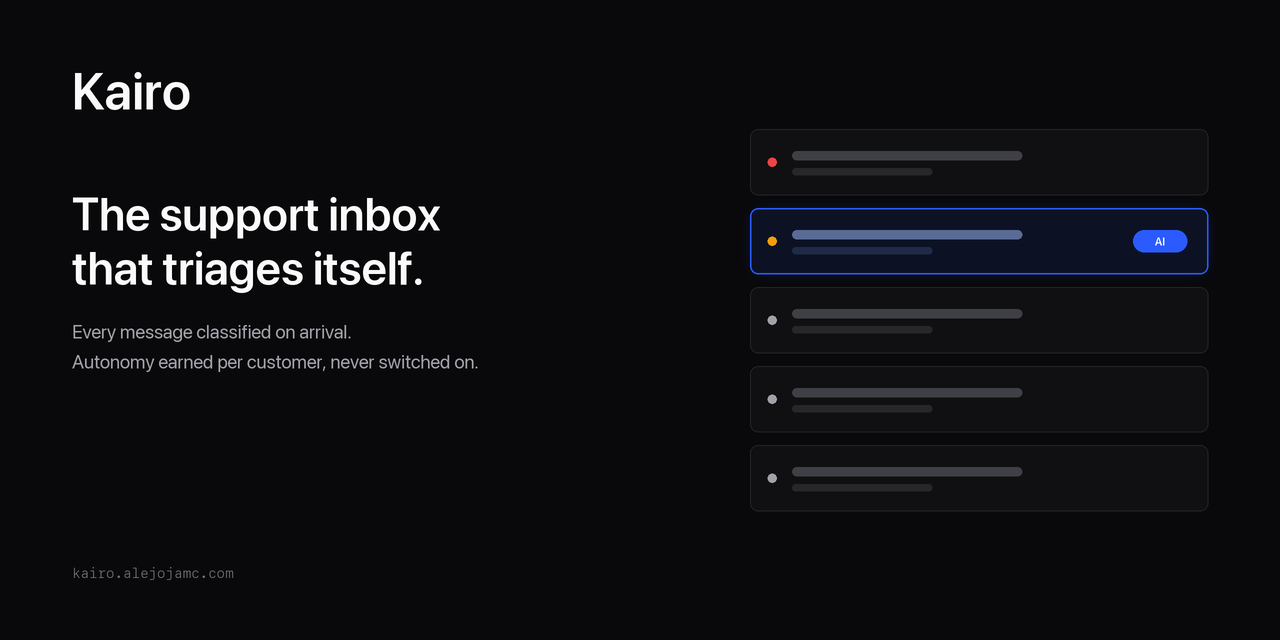
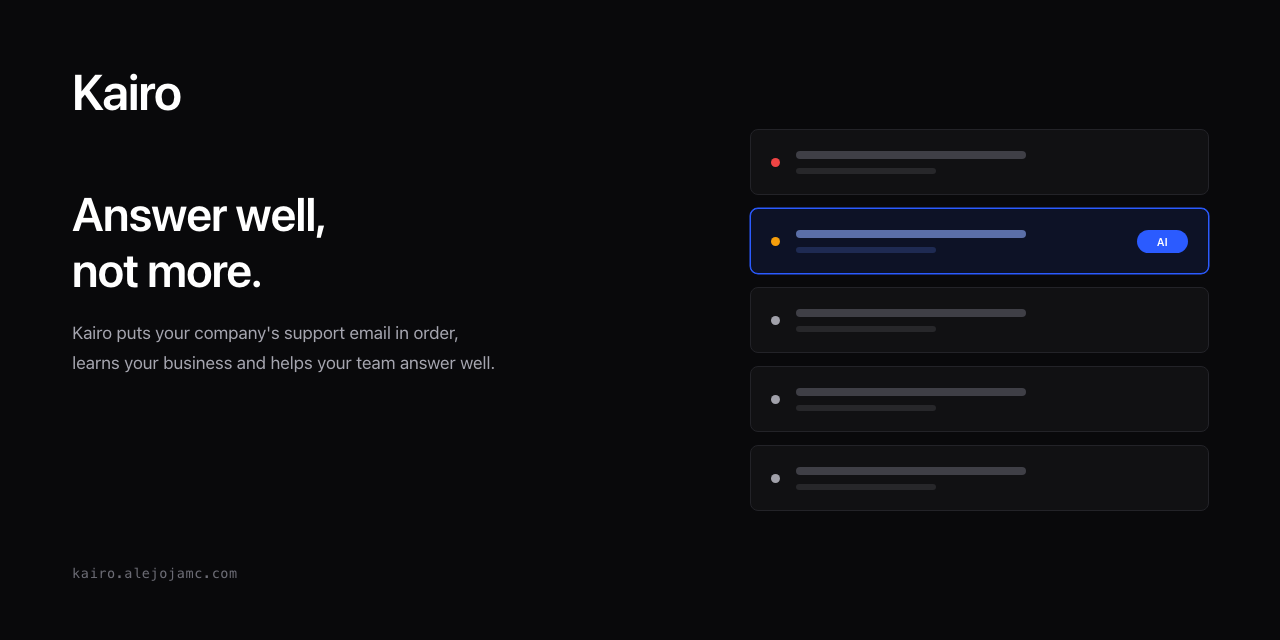
docs: unify the brand copy across docs, emails and the dashboard
Use the same description everywhere Kairo introduces itself: it puts a
company's support email in order, learns the business and helps the team
answer well. Updates the READMEs, PROJECT.md, AGENTS.md, the banner, the
email footers, the dashboard title and the legal and settings strings
that still said cockpit. Moves internal notes to the switched-off row of
the status tables and updates the channels line in the product docs.

diff --git a/apps/landing/lib/i18n/locales/en.ts b/apps/landing/lib/i18n/locales/en.ts
@@ -118,8 +118,8 @@ export const en = {
     ctaPrimary: "Connect my Gmail",
     ctaSecondary: "See pricing",
     ctaNote: "Free up to 200 tickets a month. No card. Cancel anytime.",
-    footerSlogan: "Reply well, not more.",
-    footerTagline: "Kairo sorts your company's support email, learns your business and helps you reply well.",
+    footerSlogan: "Answer well, not more.",
+    footerTagline: "Kairo sorts your company's support email, learns your business and helps you answer well.",
     footerBuilt: "MADE IN BUCARAMANGA AND UTRECHT",
     footerColProduct: "Product",
     footerColLegal: "Legal",
@@ -214,7 +214,6 @@ export const en = {
     },
   },
   footer: {
-    tagline: "AI Support Cockpit",
     privacy: "Privacy Policy",
     terms: "Terms of Service",
     copyright: "© 2026 Kairo. All rights reserved.",
@@ -235,7 +234,6 @@ export const en = {
       'Invalid credentials. If you signed up with Google, use "Continue with Google" or set a password first.',
     errorUnexpected: "An unexpected error occurred. Please try again.",
     forgotPassword: "Forgot?",
-    tagline: "AI support cockpit · 14 days free",
     switchLabel: "No account? Create one →",
     emailDivider: "OR WITH EMAIL",
     testimonialQuote:
@@ -428,7 +426,7 @@ export const en = {
     updated: "Last updated: February 20, 2026",
     s1: {
       title: "1. Introduction",
-      p1: 'Kairo (\u201cwe\u201d, \u201cour\u201d, or \u201cus\u201d) is committed to protecting your privacy. This Privacy Policy explains how we collect, use, and safeguard your information when you use our AI Support Cockpit service.',
+      p1: 'Kairo (\u201cwe\u201d, \u201cour\u201d, or \u201cus\u201d) is committed to protecting your privacy. This Privacy Policy explains how we collect, use, and safeguard your information when you use Kairo.',
       p2: "By using Kairo, you agree to the collection and use of information in accordance with this policy.",
     },
     s2: {
@@ -645,7 +643,7 @@ export const en = {
     },
     s2: {
       title: "2. Service Description",
-      intro: "Kairo is an AI-powered support cockpit that:",
+      intro: "Kairo is an AI-powered support service that:",
       items: [
         "Connects to your Gmail account to read support emails",
         "Automatically triages and prioritizes support tickets",

diff --git a/apps/landing/lib/i18n/locales/es.ts b/apps/landing/lib/i18n/locales/es.ts
@@ -216,7 +216,6 @@ export const es: Translations = {
     },
   },
   footer: {
-    tagline: "Cockpit de Soporte con IA",
     privacy: "Política de Privacidad",
     terms: "Términos de Servicio",
     copyright: "© 2026 Kairo. Todos los derechos reservados.",
@@ -237,7 +236,6 @@ export const es: Translations = {
       'Credenciales inválidas. Si te registraste con Google, usa "Continuar con Google" o establece una contraseña primero.',
     errorUnexpected: "Ocurrió un error inesperado. Por favor, inténtalo de nuevo.",
     forgotPassword: "¿Olvidaste?",
-    tagline: "Cockpit de soporte con IA · 14 días gratis",
     switchLabel: "¿Sin cuenta? Crear una →",
     emailDivider: "O CON EMAIL",
     testimonialQuote:
@@ -430,7 +428,7 @@ export const es: Translations = {
     updated: "Última actualización: 20 de febrero de 2026",
     s1: {
       title: "1. Introducción",
-      p1: "Kairo («nosotros», «nuestro» o «nos») está comprometido con la protección de tu privacidad. Esta Política de Privacidad explica cómo recopilamos, usamos y protegemos tu información cuando utilizas nuestro servicio de Cockpit de Soporte con IA.",
+      p1: "Kairo («nosotros», «nuestro» o «nos») está comprometido con la protección de tu privacidad. Esta Política de Privacidad explica cómo recopilamos, usamos y protegemos tu información cuando utilizas Kairo.",
       p2: "Al usar Kairo, aceptas la recopilación y el uso de información de acuerdo con esta política.",
     },
     s2: {
@@ -647,7 +645,7 @@ export const es: Translations = {
     },
     s2: {
       title: "2. Descripción del Servicio",
-      intro: "Kairo es un cockpit de soporte impulsado por IA que:",
+      intro: "Kairo es un servicio de soporte con IA que:",
       items: [
         "Se conecta a tu cuenta de Gmail para leer correos de soporte",
         "Clasifica y prioriza automáticamente los tickets de soporte",

diff --git a/apps/api/src/emails/templates/agent-reply.html b/apps/api/src/emails/templates/agent-reply.html
@@ -244,7 +244,7 @@
                   </div>
                   <div style="margin-bottom:6px; color:#A1A1AA;">Recibes este correo porque tienes un ticket de soporte abierto en Kairo.</div>
                   <div style="color:#C4C4CC; font-size:11px;">
-                    Kairo · El cockpit de soporte para equipos hispanohablantes
+                    Kairo · Responder bien, no responder más
                     <!-- kairo:if unsubscribe_url --><br/>
                     <a href="{{unsubscribe_url}}" style="color:#A1A1AA; text-decoration:underline;">Gestionar notificaciones</a>
                     <!-- /kairo:if -->

diff --git a/apps/api/src/emails/templates/csat-survey.html b/apps/api/src/emails/templates/csat-survey.html
@@ -202,7 +202,7 @@
                   </div>
                   <div style="margin-bottom:6px; color:#A1A1AA;">Recibes esta encuesta porque cerramos tu ticket de soporte en Kairo.</div>
                   <div style="color:#C4C4CC; font-size:11px;">
-                    Kairo · El cockpit de soporte para equipos hispanohablantes
+                    Kairo · Responder bien, no responder más
                     <!-- kairo:if unsubscribe_url --><br/>
                     <a href="{{unsubscribe_url}}" style="color:#A1A1AA; text-decoration:underline;">Gestionar notificaciones</a>
                     <!-- /kairo:if -->

diff --git a/apps/api/src/emails/templates/acknowledgement.html b/apps/api/src/emails/templates/acknowledgement.html
@@ -258,7 +258,7 @@
                   </div>
                   <div style="margin-bottom:6px; color:#A1A1AA;">Recibes este correo porque abriste un ticket de soporte en Kairo.</div>
                   <div style="color:#C4C4CC; font-size:11px;">
-                    Kairo · El cockpit de soporte para equipos hispanohablantes
+                    Kairo · Responder bien, no responder más
                     <!-- kairo:if unsubscribe_url --><br/>
                     <a href="{{unsubscribe_url}}" style="color:#A1A1AA; text-decoration:underline;">Gestionar notificaciones</a>
                     <!-- /kairo:if -->

diff --git a/apps/api/src/emails/templates/escalated.html b/apps/api/src/emails/templates/escalated.html
@@ -243,7 +243,7 @@
                   </div>
                   <div style="margin-bottom:6px; color:#A1A1AA;">Recibes este correo por tu ticket de soporte en Kairo.</div>
                   <div style="color:#C4C4CC; font-size:11px;">
-                    Kairo · El cockpit de soporte para equipos hispanohablantes
+                    Kairo · Responder bien, no responder más
                     <!-- kairo:if unsubscribe_url --><br/>
                     <a href="{{unsubscribe_url}}" style="color:#A1A1AA; text-decoration:underline;">Gestionar notificaciones</a>
                     <!-- /kairo:if -->

diff --git a/apps/api/src/emails/templates/resolved.html b/apps/api/src/emails/templates/resolved.html
@@ -271,7 +271,7 @@
                   </div>
                   <div style="margin-bottom:6px; color:#A1A1AA;">Recibes este correo por tu ticket de soporte en Kairo.</div>
                   <div style="color:#C4C4CC; font-size:11px;">
-                    Kairo · El cockpit de soporte para equipos hispanohablantes
+                    Kairo · Responder bien, no responder más
                     <!-- kairo:if unsubscribe_url --><br/>
                     <a href="{{unsubscribe_url}}" style="color:#A1A1AA; text-decoration:underline;">Gestionar notificaciones</a>
                     <!-- /kairo:if -->

diff --git a/apps/dashboard/index.html b/apps/dashboard/index.html
@@ -4,7 +4,7 @@
     <meta charset="UTF-8" />
     <link rel="icon" type="image/svg+xml" href="%BASE_URL%vite.svg" />
     <meta name="viewport" content="width=device-width, initial-scale=1.0" />
-    <title>Kairo — AI Support Cockpit</title>
+    <title>Kairo</title>
     <!-- Kairo design fonts: Inter Display (headings), Inter (body), JetBrains Mono (code/kbd) via Google Fonts -->
     <link rel="preconnect" href="https://fonts.googleapis.com" />
     <link rel="preconnect" href="https://fonts.gstatic.com" crossorigin />

diff --git a/docs/README.es.md b/docs/README.es.md
@@ -1,8 +1,8 @@
 <p align="center">
-  <img src="assets/banner.png" alt="Kairo — la bandeja de soporte que se ordena sola" width="100%">
+  <img src="assets/banner.png" alt="Kairo — responder bien, no responder más" width="100%">
 </p>
 
-**Triage de soporte con IA para la bandeja de soporte.** Cada mensaje se clasifica al llegar; la IA actúa sola solo donde se ha ganado el derecho, y le pasa la decisión a una persona cuando no.
+**Kairo ordena el correo de soporte de una empresa, aprende de su negocio y ayuda a su equipo a responder bien.** Empieza con Gmail. La IA propone y una persona decide: Kairo solo actúa por su cuenta en lo que ha demostrado hacer bien, y ninguna respuesta que redacte sale sin que alguien la revise.
 
 [Sitio web](https://kairo.alejojamc.com) · [Qué funciona hoy](que-es-kairo.md) · [English](../README.md)
 
@@ -14,9 +14,11 @@
 
 ## Qué hace
 
-- **Clasifica cada mensaje al llegar** — tipo, prioridad, urgencia y tono — antes de que nadie abra la bandeja.
-- **Ordena la cola** por tipo de ticket, plan del cliente, estado de ánimo, tiempo de espera y reincidencia, para que la primera pantalla sea el orden de trabajo.
-- **Se gana la autonomía por cliente.** Un tipo de ticket se aprueba automáticamente solo tras medir su precisión, y una corrección le quita ese derecho otra vez.
+- **Lee y entiende cada correo al llegar.** Dice qué tipo de asunto es, qué tan grave es, qué tan urgente es y con qué ánimo escribe el cliente, antes de que nadie abra la bandeja.
+- **Ordena la bandeja** por tipo de ticket, plan del cliente, ánimo, tiempo de espera y reincidencia, y deja cada ticket con un responsable, para que quien la abra sepa por dónde empezar.
+- **Aprende del negocio.** Lo que el equipo aprende atendiendo deja de perderse: Kairo propone conocimiento a partir del correo de la empresa y de los tickets resueltos, y una persona lo publica.
+- **Ayuda al equipo a responder bien.** Las respuestas salen desde el Gmail de la empresa, en el mismo hilo del cliente. Kairo no inventa soluciones, y un borrador siempre necesita la aprobación de una persona.
+- **Se gana la autonomía por empresa y por tipo de ticket.** Un tipo queda en firme sin revisión solo tras medir su precisión, y una corrección le quita ese permiso otra vez.
 
 ## Cómo un mensaje se convierte en ticket
 
@@ -36,8 +38,8 @@ flowchart LR
 
 | Estado | Qué incluye |
 |---|---|
-| **Funciona hoy** | Entrada desde Gmail · clasificación · cola por prioridad · respuestas en el hilo · notas internas · escalamientos · tiempos de respuesta |
-| **Construido, apagado por defecto** | Propuestas de conocimiento · asistente del ticket · segundo modelo · borradores de contactos · correo de acuse |
+| **Funciona hoy** | Entrada desde Gmail · clasificación · cola por prioridad · respuestas en el hilo · escalamientos · tiempos de respuesta |
+| **Construido, apagado por defecto** | Propuestas de conocimiento · notas internas · asistente del ticket · segundo modelo · borradores de contactos · correo de acuse |
 | **Sin construir** | Canales distintos de Gmail · facturación · resolución automática |
 
 Qué funciona, qué está apagado y dónde el sitio de marketing promete más de lo que hace el producto: **[what-is-kairo.md](what-is-kairo.md)**.
@@ -65,7 +67,7 @@ Cada variable se valida al arrancar con [`@kairo/env`](../packages/env/index.ts)
 ```
 apps/
   api/          Bun + Hono · REST v1 + pipeline Inngest (tiers, sondeo, reintentos)
-  dashboard/    Vite + React 19 · el panel
+  dashboard/    Vite + React 19 · la aplicación donde trabaja el equipo de soporte
   landing/      Next.js 15 · sitio de marketing, auth, asistente de registro
   kelan/        Next.js 15 · administración interna
   mobile/       Expo · solo esqueleto

diff --git a/README.md b/README.md
@@ -1,8 +1,8 @@
 <p align="center">
-  <img src="docs/assets/banner.png" alt="Kairo — the support inbox that triages itself" width="100%">
+  <img src="docs/assets/banner.png" alt="Kairo — answer well, not more" width="100%">
 </p>
 
-**AI support triage for the support inbox.** Every message is classified on arrival; the AI acts alone only where it has earned the right to, and hands the decision to a person when it hasn't.
+**Kairo puts a company's support email in order, learns the business, and helps the team answer well.** It starts with Gmail. The AI proposes and a person decides: Kairo acts alone only where it has proven it gets things right, and no reply it drafts goes out before someone has reviewed it.
 
 [Website](https://kairo.alejojamc.com) · [What works today](docs/what-is-kairo.md) · [Español](docs/README.es.md)
 
@@ -14,9 +14,11 @@
 
 ## What it does
 
-- **Classifies every message on arrival** — type, priority, urgency and tone — before anyone opens the inbox.
-- **Orders the queue** by ticket type, customer plan, mood, waiting time and recurrence, so the first screen is the work order.
-- **Earns its autonomy per customer.** A ticket type is auto-approved only after measured accuracy, and a correction takes that right away again.
+- **Reads and understands every email on arrival.** It says what kind of matter it is, how serious it is, how urgent it is and what mood the customer is writing in, before anyone opens the inbox.
+- **Orders the inbox** by ticket type, customer plan, mood, waiting time and recurrence, and gives every ticket an owner, so whoever opens it knows where to start.
+- **Learns the business.** What the team learns while serving customers stops getting lost: Kairo proposes knowledge from the company's email and resolved tickets, and a person publishes it.
+- **Helps the team answer well.** Replies go out from the company's own Gmail, in the customer's thread. Kairo does not invent solutions, and a draft always needs a person's approval.
+- **Earns its autonomy per company and per ticket type.** A type stands without review only after measured accuracy, and a correction takes that permission away again.
 
 ## How a message becomes a ticket
 
@@ -36,8 +38,8 @@ flowchart LR
 
 | State | What it covers |
 |---|---|
-| **Working today** | Gmail ingestion · classification · priority queue · replies in-thread · internal notes · escalations · response-time targets |
-| **Built, off by default** | Knowledge proposals · ticket assistant · second model · contact drafts · acknowledgement email |
+| **Working today** | Gmail ingestion · classification · priority queue · replies in-thread · escalations · response-time targets |
+| **Built, off by default** | Knowledge proposals · internal notes · ticket assistant · second model · contact drafts · acknowledgement email |
 | **Not built** | Channels beyond Gmail · billing · auto-resolution |
 
 What works, what is switched off, and where the marketing site promises more than the product does: **[docs/what-is-kairo.md](docs/what-is-kairo.md)**.
@@ -65,7 +67,7 @@ Every variable is validated at startup by [`@kairo/env`](packages/env/index.ts);
 ```
 apps/
   api/          Bun + Hono · REST v1 + Inngest pipeline (tiers, polling, retries)
-  dashboard/    Vite + React 19 · the cockpit
+  dashboard/    Vite + React 19 · the app the support team works in
   landing/      Next.js 15 · marketing site, auth, onboarding wizard
   kelan/        Next.js 15 · internal admin
   mobile/       Expo · scaffold only

diff --git a/docs/que-es-kairo.md b/docs/que-es-kairo.md
@@ -376,7 +376,7 @@ Registro y conexión con Gmail · primera revisión y revisión cada cinco minut
 
 El sitio describe hacia dónde va Kairo. Para quien tenga que explicar el producto, estas son las diferencias de hoy:
 
-- **Canales.** El sitio menciona Slack, WhatsApp, Telegram e Instagram. Solo existe Gmail.
+- **Canales.** El sitio anuncia WhatsApp, Instagram, Telegram y Slack como próximamente. Solo existe Gmail.
 - **Privacidad.** La política de privacidad y la pantalla de conexión dicen que Kairo solo lee y nunca envía. El producto envía las respuestas del equipo y el aviso fuera de horario.
 - **Resolución automática.** El sitio habla de resolver tickets sobre un umbral de confianza. Kairo deja el spam fuera de la bandeja, pero no resuelve tickets.
 - **Planes y precios.** El sitio muestra Free, Pro, Scale y Enterprise con precios y límites. El producto registra Starter, Pro y Enterprise y no cobra.

diff --git a/docs/what-is-kairo.md b/docs/what-is-kairo.md
@@ -376,7 +376,7 @@ Sign-up and the Gmail connection · the first pass and the check every five minu
 
 The website describes where Kairo is heading. For anyone explaining the product, these are today's differences:
 
-- **Channels.** The website mentions Slack, WhatsApp, Telegram and Instagram. Only Gmail exists.
+- **Channels.** The website lists WhatsApp, Instagram, Telegram and Slack as coming soon. Only Gmail exists.
 - **Privacy.** The privacy policy and the connection screen say Kairo only reads and never sends. The product sends the team's replies and the out-of-hours notice.
 - **Automatic resolution.** The website talks about resolving tickets above a confidence threshold. Kairo keeps spam out of the inbox, but it does not resolve tickets.
 - **Plans and pricing.** The website shows Free, Pro, Scale and Enterprise with prices and limits. The product records Starter, Pro and Enterprise and does not charge.
